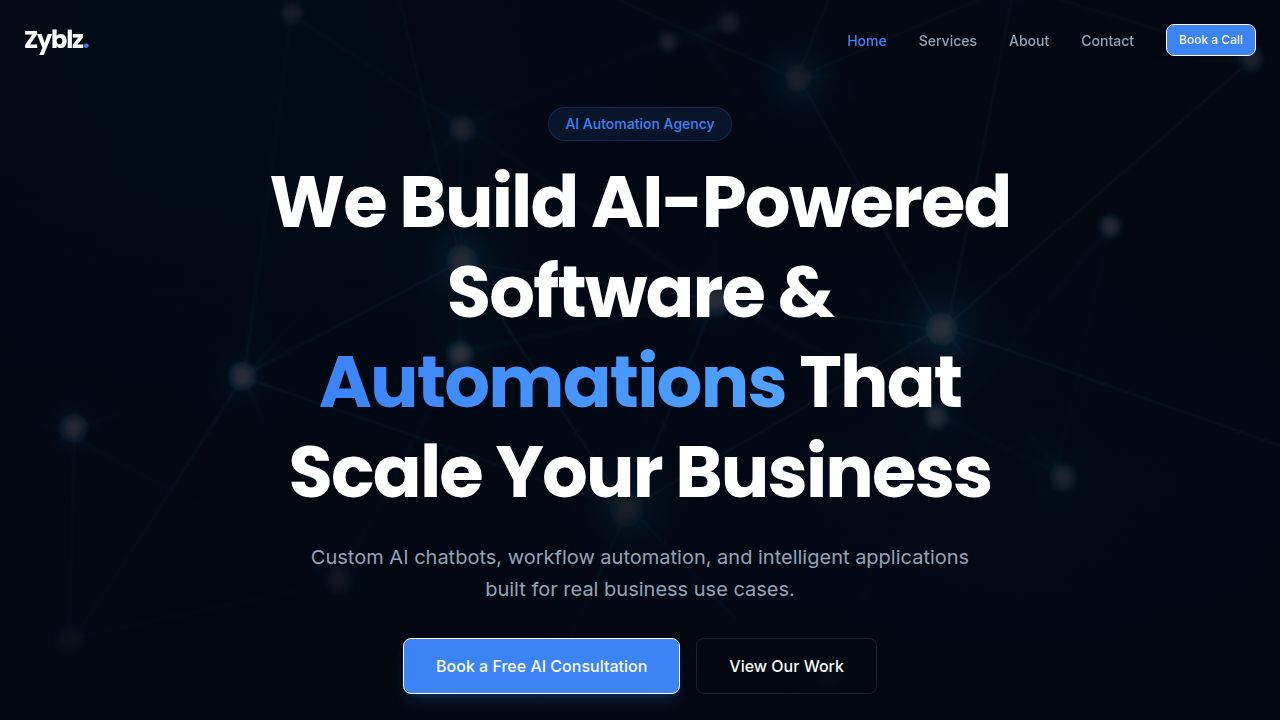
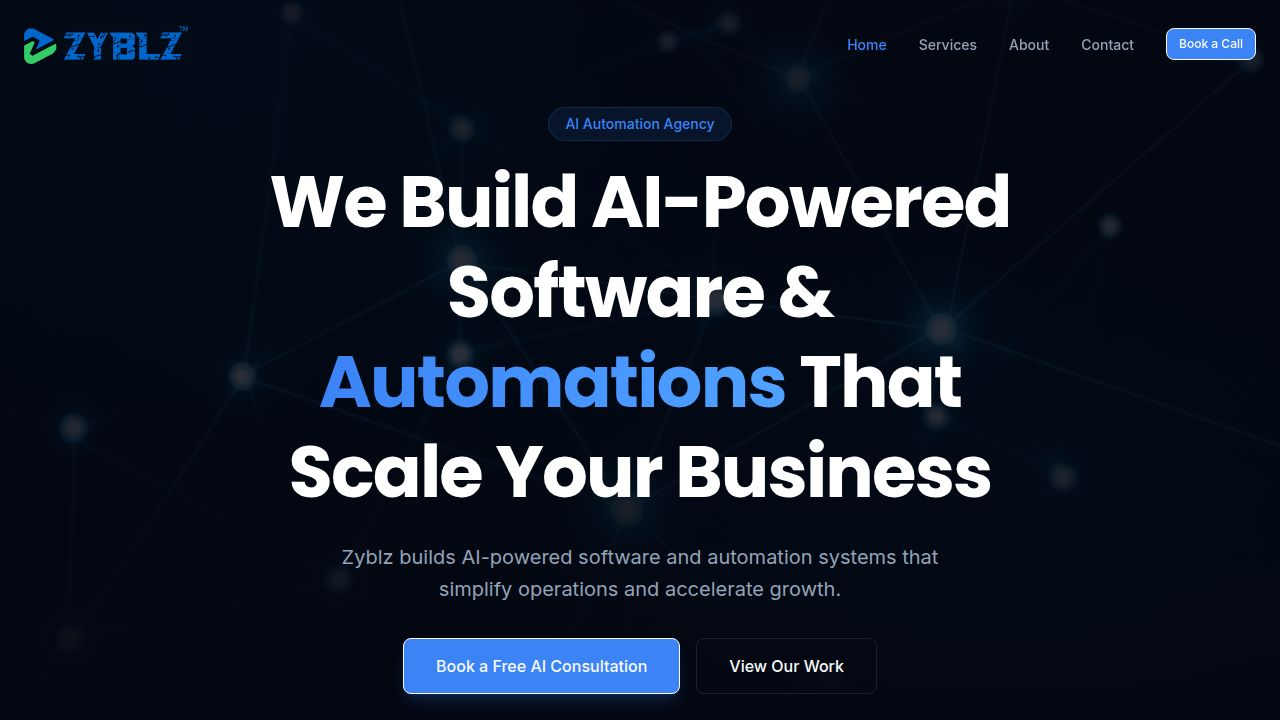
Update contact page to show direct contact information
Replace calendar booking section with direct email and phone number links in Contact.tsx.

Replit-Commit-Author: Agent
Replit-Commit-Session-Id: b62f0c4f-6ee7-44a4-9842-ad1eea3a8f69
Replit-Commit-Checkpoint-Type: intermediate_checkpoint
Replit-Commit-Event-Id: 2b47c0fb-5751-4db8-ae11-713e4fa4ae80
Replit-Commit-Screenshot-Url: https://storage.googleapis.com/screenshot-production-us-central1/42c83fc7-4152-4b0f-8cf7-525270511613/b62f0c4f-6ee7-44a4-9842-ad1eea3a8f69/QFXbYem
Replit-Helium-Checkpoint-Created: true

diff --git a/client/src/pages/Contact.tsx b/client/src/pages/Contact.tsx
@@ -9,7 +9,7 @@ import { zodResolver } from "@hookform/resolvers/zod";
 import { z } from "zod";
 import { Form, FormControl, FormField, FormItem, FormLabel, FormMessage } from "@/components/ui/form";
 import { useToast } from "@/hooks/use-toast";
-import { Calendar, Mail } from "lucide-react";
+import { Mail, Phone } from "lucide-react";
 import { useMutation } from "@tanstack/react-query";
 
 const formSchema = z.object({
@@ -80,18 +80,23 @@ export default function ContactPage() {
             <div>
               <h1 className="text-4xl md:text-5xl font-bold font-heading mb-6">Let's Automate Your Business</h1>
               <p className="text-xl text-muted-foreground mb-12">
-                Have a project in mind? Want to see how AI can help you? Fill out the form or book a call directly.
+                Have a project in mind? Want to see how AI can help you? Fill out the form or reach out directly.
               </p>
 
               <div className="space-y-8">
                 <div className="flex items-start gap-4">
                   <div className="w-12 h-12 rounded-lg bg-primary/10 flex items-center justify-center shrink-0">
-                    <Calendar className="w-6 h-6 text-primary" />
+                    <Phone className="w-6 h-6 text-primary" />
                   </div>
                   <div>
-                    <h3 className="text-xl font-bold mb-2">Book a Call Directly</h3>
-                    <p className="text-muted-foreground mb-4">Skip the back-and-forth and find a time that works for you.</p>
-                    <Button variant="outline">View Calendar</Button>
+                    <h3 className="text-xl font-bold mb-2">Call Us</h3>
+                    <a 
+                      href="tel:[phone redacted]" 
+                      className="text-muted-foreground hover:text-primary transition-colors"
+                      data-testid="link-phone"
+                    >
+                      [phone redacted]
+                    </a>
                   </div>
                 </div>
 
@@ -101,7 +106,13 @@ export default function ContactPage() {
                   </div>
                   <div>
                     <h3 className="text-xl font-bold mb-2">Email Us</h3>
-                    <p className="text-muted-foreground">[email redacted]</p>
+                    <a 
+                      href="mailto:[email redacted]" 
+                      className="text-muted-foreground hover:text-primary transition-colors"
+                      data-testid="link-email"
+                    >
+                      [email redacted]
+                    </a>
                   </div>
                 </div>
               </div>